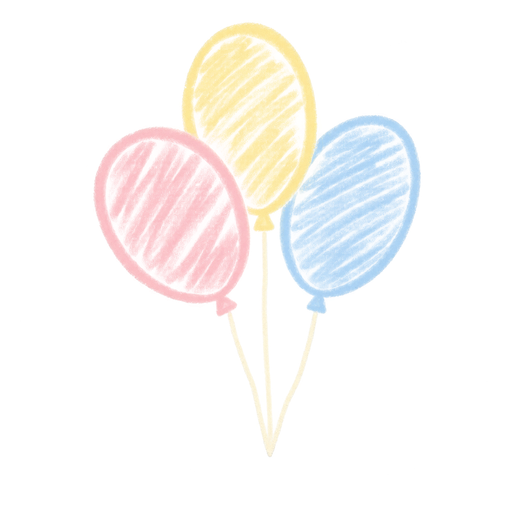
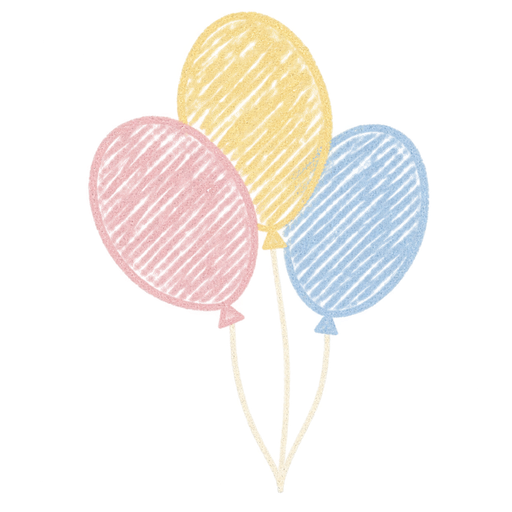
art: soften balloon string curves and balance cat ears

Changed region(s): [[0.1562, 0.0, 0.8438, 0.9688]]

diff --git a/public/classroom/chalk/handdrawn/preview.html b/public/classroom/chalk/handdrawn/preview.html
@@ -38,8 +38,8 @@
     <section class="grid" aria-label="四款粉笔图案">
       <article><div class="board"><img class="large" src="heart.webp" alt="柔粉色粉笔爱心" width="512" height="512"><img class="small" src="heart.webp" alt="" width="52" height="52"></div><h2>爱心</h2><div class="files"><a href="heart.webp" download>网页图片</a><a href="heart.png" download>PNG 原图</a></div></article>
       <article><div class="board"><img class="large" src="stars.webp" alt="淡黄、暖白与浅蓝粉笔星星" width="512" height="512"><img class="small" src="stars.webp" alt="" width="52" height="52"></div><h2>星星</h2><div class="files"><a href="stars.webp" download>网页图片</a><a href="stars.png" download>PNG 原图</a></div></article>
-      <article><div class="board"><img class="large" src="balloons.webp?v=6" alt="柔粉、淡黄与浅蓝的三个粉笔气球，绳线在中下方汇合" width="512" height="512"><img class="small" src="balloons.webp?v=6" alt="" width="52" height="52"></div><h2>三个气球</h2><div class="files"><a href="balloons.webp" download>网页图片</a><a href="balloons.png" download>PNG 原图</a></div></article>
-      <article><div class="board"><img class="large" src="cat.webp?v=6" alt="暖白粉笔猫咪，带淡黄擦涂色块和柔粉耳内" width="512" height="512"><img class="small" src="cat.webp?v=6" alt="" width="52" height="52"></div><h2>猫咪</h2><div class="files"><a href="cat.webp" download>网页图片</a><a href="cat.png" download>PNG 原图</a></div></article>
+      <article><div class="board"><img class="large" src="balloons.webp?v=7" alt="柔粉、淡黄与浅蓝的三个粉笔气球，绳线带轻微弧度并在中下方汇合" width="512" height="512"><img class="small" src="balloons.webp?v=7" alt="" width="52" height="52"></div><h2>三个气球</h2><div class="files"><a href="balloons.webp" download>网页图片</a><a href="balloons.png" download>PNG 原图</a></div></article>
+      <article><div class="board"><img class="large" src="cat.webp?v=7" alt="暖白粉笔猫咪，双耳大小接近，带淡黄擦涂色块和柔粉耳内" width="512" height="512"><img class="small" src="cat.webp?v=7" alt="" width="52" height="52"></div><h2>猫咪</h2><div class="files"><a href="cat.webp" download>网页图片</a><a href="cat.png" download>PNG 原图</a></div></article>
     </section>
     <p class="note">下方小样固定为 52 px。背景颜色来自页面，图片里的空白与粉笔颗粒间隙均为透明区域。</p>
   </main>

diff --git a/public/classroom/chalk/handdrawn/PROMPTS.md b/public/classroom/chalk/handdrawn/PROMPTS.md
@@ -38,7 +38,7 @@ Subject: ONE very cute simple sitting kitten, front-facing, with a slightly tilt
 
 ## 第二版：气球绳线与猫咪手绘感
 
-2026-09-10，根据用户对气球绳线缺少粉笔感、猫咪过于精致的反馈更新。以下两段是第二版气球和猫咪采用的提示词。第二版气球的粉笔质感获用户认可，后续追加了自然倾角和遮挡关系要求；两款当前采用第六版，见文末记录。爱心和星星沿用第一版。使用内置 imagegen 分别重新生成透明素材，保留原调用地址；前两次图像编辑返回了带棋盘格的非透明文件，未采用。
+2026-09-10，根据用户对气球绳线缺少粉笔感、猫咪过于精致的反馈更新。以下两段是第二版气球和猫咪采用的提示词。第二版气球的粉笔质感获用户认可，后续追加了自然倾角和遮挡关系要求；两款当前采用第七版，见文末记录。爱心和星星沿用第一版。使用内置 imagegen 分别重新生成透明素材，保留原调用地址；前两次图像编辑返回了带棋盘格的非透明文件，未采用。
 
 ### balloons：第二版记录
 
@@ -125,7 +125,7 @@ Inside each balloon use a FEW airy diagonal side-of-chalk rubbing strokes, less 
 
 气球保留三只气球的不同倾角和遮挡，改为中下方汇合的绳线；猫咪在徒手轮廓内增加淡黄与柔粉擦涂。旧版文件保存在 `codex-generated/chalk-handdrawn-2026-09-10/before-revision-6/`。下列为最终采用的完整提示词。PNG 为生成原件，WebP 仅等比缩小至 512 × 512 后无损编码，二者均保留真实透明通道。
 
-### balloons：当前版本完整提示词
+### balloons：第六版完整提示词
 
 ```text
 Use case: stylized-concept. Create a new revised variant of a simple hand-drawn CHALK balloon bunch as a TRUE TRANSPARENT PNG with real alpha. This is an isolated reusable website motif on an empty transparent canvas, no background surface of any kind. Square composition with 10 percent transparent margin. Exactly THREE muted pastel balloons: dusty pink #e6b1ba lower-left in front, pastel yellow #efd28a higher center behind, pale blue #a4c5de on the right slightly behind pink. Softly lopsided elongated ovals with distinct natural tilts: left balloon leans left about 18 degrees, high yellow almost upright but slightly left 6 degrees, right balloon leans right about 18 degrees. Slight overlap gives front-back relationship. Knot of each follows its own balloon axis. Keep balloon bodies in upper 60 percent of drawing height; strings in remaining lower 40 percent. Preserve a quiet cute simple freehand classroom aesthetic, matte dry chalk, no vector precision.
@@ -133,11 +133,34 @@ The THREE hanging strings are a natural calm helium bouquet informed by real Tan
 ALL balloon boundary strokes AND each ivory #f5efdb string are the SAME approximately 10-14px dry chalk width at 1254px canvas scale, with mild pressure variation. Chalk grain and transparent flecks must break through the ENTIRE strokes, including their centers. Strings must look like a single trace of a chalk stick, neither thin pencil nor smooth creamy ribbon. Balloon colored outlines remain obvious and same visual weight as strings. Fills are a few broad light diagonal back-and-forth side-of-chalk rubs, the same look as pink chalk heart and yellow chalk star doodles: visible overlaps, uneven deposition, open grain holes and transparent streaks, sparse coverage lighter than boundary. Do not add a grey base underneath colors. Entire art is just chalk pigment with alpha, not a photographed chalkboard. No digital solid fills, gradients, highlights, volume, shadows, text, extra decorations, dust clouds or background. Truly transparent PNG, do NOT paint checkerboard squares.
 ```
 
-### cat：当前版本完整提示词
+### cat：第六版完整提示词
 
 ```text
 Generate ONE simple chalk cat doodle as actual RGBA TRANSPARENT PNG. Empty background has real alpha, NOT painted checkerboard. Square canvas with FULL 12% clear margin on ALL four sides. No paper, blackboard or surface. Subject only.
 The silhouette MUST look like an ordinary person's quickly drawn chalk sketch, with visible changes of direction and stop/start joins. A very wide slightly squarish head flows into a short squat body, two tall unequal triangular ears, left higher than right, whole cat tilted a little clockwise. Outer cheeks are drawn with three imperfect long strokes each: one slanted flatter stretch, one mild angled corner, one curved return. BELLY BOTTOM IS A SLIGHTLY SLANTED FLAT STROKE with imperfect corners. Ears have kinked straight-ish sides and slightly blunt points. Draw naturally by hand, not an exact polygon; avoid continuous perfectly round outlines. Those few asymmetries and angled turns should be visible at small icon size. This is a naive simple doodle, not polished character illustration.
 Use warm IVORY #f5efdb dry chalk. Medium thin lines of varying pressure, roughly 10-16 pixels in a 1254px square, broken granular deposit through each stroke, occasional tiny interruptions where the chalk lifts; no smooth tubes, no uniform round line caps. NO white dust clouds or white underpainting. All interior empty spaces are TRANSPARENT. Eyes: two SMALL slightly unequal chubby tilted ovals, filled with grainy ivory chalk scribbling. Smile: one tiny handwritten lowercase w, NO nose. Two short uneven whisker dashes inside each cheek. Inner ears simple unequal triangles. Head and little body share one connected interior with no divider. The ONLY PAW MARK is ONE small handwritten lower-case w formed by TWO downward U-shaped loops joined in the middle. This one small w sits inside the body slightly ABOVE outer belly with clear gap below; no separate legs, no circles, NO curled feet, NO toes, no third loop. Small EMPTY loop tail behind lower-right body.
+Add restrained pastel coloring: ONE soft yellow #efd28a patch at upper-left forehead near left ear, ONE smaller yellow patch at lower-right body, a little pink #e6b1ba inside both inner-ear triangles. Face center, most cheeks, most body and tail remain empty transparent. Color patches have NO border. Draw their fill using a few broad short diagonal back-and-forth chalk rubbing strokes with visibly uneven coverage and see-through grain gaps, like a chalk-colored yellow star or pink heart. Clearly show separate chalk strokes and streaks, not smooth solid digital fill, not gradients or shading. Pigment texture gentle and readable. Cute, warm, quiet, simple, handmade. No extra details or surrounding decoration, no shadows or text. Do not smooth the wonky shape. Entire drawing including both ears and belly comfortably inside clear canvas margins. True transparent PNG.
+```
+
+## 第七版：气球轻微弧度与猫咪耳朵比例
+
+2026-09-11，用户要求气球绳线有少量弧度，并认可猫咪颜色，要求双耳大小更接近。气球采用浅弧线，汇合点仍在组下方；猫咪保留淡黄额头与身体色块、柔粉耳内的分布与粉笔擦涂方式，缩小耳朵大小差异并保留徒手轮廓。
+
+使用内置 imagegen。猫咪的图像编辑尝试未保留真实透明通道，未采用；文字生成的第一张增加了多余的胡须和爪子笔画，采用第二张简化后的透明结果。气球采用第一张文字生成结果。PNG 保留生成原图，WebP 仅等比缩小并无损编码，均通过透明通道检查。旧版存放于 `codex-generated/chalk-handdrawn-2026-09-10/before-revision-7/`。
+
+### balloons：当前版本完整提示词
+
+```text
+Create ONE isolated transparent PNG web asset of a simple freehand CHALK BUNCH OF THREE BALLOONS. Actual RGBA alpha, no background, no checkerboard, no blackboard or paper. Square composition, clear 10% margin. Three muted pastel balloons: dusty pink #e6b1ba lower-left and in front, pale yellow #efd28a higher middle behind, light blue #a4c5de at right and partly behind pink. Left balloon tilts left about 18 degrees, yellow slightly left about 6 degrees, blue right about 18 degrees. Lopsided hand-drawn elongated ovals with modest overlap, distinct heights, individual small triangular knots. Bodies occupy upper 60% of total drawing height and strings lower 40%.
+MOST IMPORTANT: THREE IVORY CHALK STRINGS WITH JUST A SLIGHT NATURAL ARC, NOT STRAIGHT LINES. Each travels from its own knot to a shared point directly under the group center. Left string overall inclines gently down-right; right string overall inclines gently down-left; middle remains approximately vertical. Give each ONE long shallow bow, departing from its straight knot-to-endpoint chord by only 20-30px on this 1254px canvas. The left string bows subtly left, the middle bows subtly right, the right string bows subtly right. They should look softly relaxed with a little curve, NOT a rigid V of straight rods, NOT sweeping sideways, NOT big C or S curves. No loops, no curly ribbons, no bow or weight. The slight arc should be discernible at 160px web display. End together below center, no heavy lump at convergence.
+The strings use the SAME dry chalk thickness as the balloons' colored boundary strokes, about 10-14px at 1254px scale, mildly irregular pressure and tiny chalk skips. Dry chalk grain and transparent gaps break THROUGH the entire line, including its center. Single traces, not double borders, thin pencil, smooth ivory ribbons or thick tubes. Keep rough freehand contours and simple shapes. Interior balloon fills are broad diagonal back-and-forth light side-of-chalk rubbing strokes with visible uneven deposits, see-through gaps and flecks. Same material as a yellow chalk star or pink chalk heart: outline a little stronger than rubbed fill, no grey base, no solid digital coloring. Flat matte muted chalk palette with warm ivory #f5efdb strings. No highlights, gloss, 3D, gradients, shadows, dust clouds, text or extra decorations. Real alpha transparency in background and grain gaps.
+```
+
+### cat：当前版本完整提示词
+
+```text
+Generate ONE simple chalk cat doodle as actual RGBA TRANSPARENT PNG. Empty background has real alpha, NOT painted checkerboard. Square canvas with FULL 12% clear margin on ALL four sides. No paper, blackboard or surface. Subject only.
+The silhouette MUST look like an ordinary person's quickly drawn chalk sketch, with visible changes of direction and stop/start joins. A very wide slightly squarish head flows into a short squat body, two MEDIUM TRIANGULAR EARS OF NEARLY EQUAL HEIGHT AND WIDTH. Each ear is about 180 pixels tall measured from its own local forehead base and about 190 pixels wide on the 1254px canvas. Left and right ear sizes differ by no more than 5-8 percent. Both are modest normal cat ears, neither huge or rabbit-like; their tips differ only slightly in position because whole cat is tilted a little clockwise. Their gentle natural asymmetry must not become one big ear and one tiny ear. Outer cheeks are drawn with three imperfect long strokes each: one slanted flatter stretch, one mild angled corner, one curved return. BELLY BOTTOM IS A SLIGHTLY SLANTED FLAT STROKE with imperfect corners. Ears have kinked straight-ish sides and slightly blunt points. Draw naturally by hand, not an exact polygon; avoid continuous perfectly round outlines. Those few asymmetries and angled turns should be visible at small icon size. This is a naive simple doodle, not polished character illustration.
+Use warm IVORY #f5efdb dry chalk. Medium thin lines of varying pressure, roughly 10-16 pixels in a 1254px square, broken granular deposit through each stroke, occasional tiny interruptions where the chalk lifts; no smooth tubes, no uniform round line caps. NO white dust clouds or white underpainting. All interior empty spaces are TRANSPARENT. Eyes: two SMALL slightly unequal chubby tilted ovals, filled with grainy ivory chalk scribbling. Smile: one tiny handwritten lowercase w, NO nose. Exactly TWO short uneven whisker dashes inside each cheek, not three. Inner ears simple triangles of similar size. Head and little body share one connected interior with no divider. The ONLY PAW MARK is ONE small handwritten lower-case w formed by TWO downward U-shaped loops joined in the middle. This SINGLE small w is centered inside the body slightly ABOVE outer belly with clear gap below; no separate legs, no circles, NO curled feet, NO toes, no third loop, NEVER two w marks. Small EMPTY loop tail behind lower-right body.
 Add restrained pastel coloring: ONE soft yellow #efd28a patch at upper-left forehead near left ear, ONE smaller yellow patch at lower-right body, a little pink #e6b1ba inside both inner-ear triangles. Face center, most cheeks, most body and tail remain empty transparent. Color patches have NO border. Draw their fill using a few broad short diagonal back-and-forth chalk rubbing strokes with visibly uneven coverage and see-through grain gaps, like a chalk-colored yellow star or pink heart. Clearly show separate chalk strokes and streaks, not smooth solid digital fill, not gradients or shading. Pigment texture gentle and readable. Cute, warm, quiet, simple, handmade. No extra details or surrounding decoration, no shadows or text. Do not smooth the wonky shape. Entire drawing including both ears and belly comfortably inside clear canvas margins. True transparent PNG.
 ```

diff --git a/public/classroom/chalk/handdrawn/README.md b/public/classroom/chalk/handdrawn/README.md
@@ -2,7 +2,7 @@
 
 这一套用于当前教室的灰绿色黑板，配色沿用暖白、淡黄、柔粉和浅蓝。四款素材各自独立，背景透明，粉笔线条和涂色中的颗粒空隙可以透出网页背景。
 
-2026-09-11 第六版更新：参考网上多组气球实物照片，将三根绳线改为在气球组中下方汇合，中间接近竖直、两侧轻微向内倾斜，保留各气球的不同倾角与前后遮挡；绳线继续使用与气球边缘接近的粉笔笔画粗细。猫咪保留有转折的徒手轮廓，在额头和身体一侧加入淡黄擦涂，耳内加入少量柔粉，涂色中的颗粒与留白延续爱心、星星的处理方式。两款 PNG 和 WebP 已一同更新，文件地址沿用原路径。网上参考与采用方式见 [REFERENCES.md](REFERENCES.md)。
+2026-09-11 第七版更新：气球的三根绳线增加轻微弧度，继续朝气球组中下方汇合，保持与气球边缘接近的笔画粗细。猫咪的双耳改为接近的大小，保留少量徒手差异与整体轻微倾斜；额头和身体一侧的淡黄擦涂、耳内柔粉沿用上一版的配色与分布，轮廓继续保留手绘转折。两款 PNG 和 WebP 已一同更新，文件地址沿用原路径。网上参考与采用方式见 [REFERENCES.md](REFERENCES.md)。
 
 | 图案 | 标识 | 网页文件 | 原始文件 |
 | --- | --- | --- | --- |
